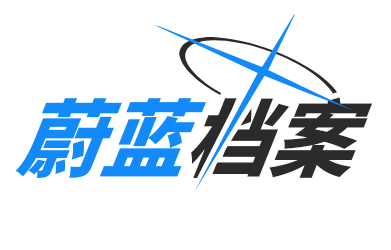
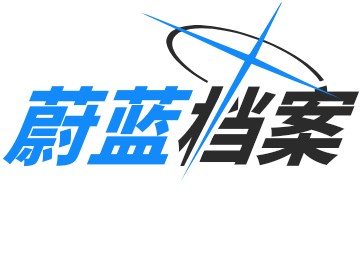
[feat(renderer)]支持像素级裁切与自定义留白居中

Changed region(s): [[0.0, 0.056, 1.0, 0.756], [0.7597, 0.0, 0.7901, 0.056]]

diff --git a/src/renderer.ts b/src/renderer.ts
@@ -27,6 +27,8 @@ export interface RenderOptions {
   offsetY?: number;
   transparent?: boolean;
   crop?: boolean; // 是否自动紧凑裁切两端多余空白（默认 true）
+  padding?: number; // 紧凑裁切留白边距（像素，默认 2，随 scale 缩放）
+  center?: boolean; // 文本垂直视觉居中（有背景时默认 true，透明模式默认 false）
   accentColor?: string; // 自定义主题强调色（默认 #128AFA）
   darkMode?: boolean; // 是否开启暗黑模式（默认 false）
   swapColors?: boolean; // 是否对调左右文字颜色（默认 false）
@@ -93,6 +95,107 @@ function drawVectorShape(
   ctx.scale(scale, scale);
   ctx.fill(path);
   ctx.restore();
+}
+
+/**
+ * 基于像素分析计算实际图形边界，并精确保留指定 padding 边缘（默认 2px）
+ * 当 center 为 true 时，以文本视觉中心对称计算纵向留白，避免文字下沉
+ */
+function trimCanvas(
+  canvas: Canvas,
+  padding: number,
+  transparent: boolean,
+  center: boolean,
+  textCenterY: number,
+  bgColor: string
+): Canvas {
+  const w = canvas.width;
+  const h = canvas.height;
+  const ctx = canvas.getContext('2d');
+  const imgData = ctx.getImageData(0, 0, w, h);
+  const u32 = new Uint32Array(imgData.data.buffer);
+  const bg = transparent ? 0 : u32[0];
+
+  let minY = 0, maxY = h - 1, minX = 0, maxX = w - 1;
+  let found = false;
+
+  // 1. 从上往下扫描 minY
+  topLoop: for (let y = 0; y < h; y++) {
+    const row = y * w;
+    for (let x = 0; x < w; x++) {
+      const p = u32[row + x];
+      if (transparent ? (p >>> 24) > 10 : p !== bg) {
+        minY = y;
+        found = true;
+        break topLoop;
+      }
+    }
+  }
+
+  if (!found) {
+    return canvas;
+  }
+
+  // 2. 从下往上扫描 maxY
+  bottomLoop: for (let y = h - 1; y >= minY; y--) {
+    const row = y * w;
+    for (let x = 0; x < w; x++) {
+      const p = u32[row + x];
+      if (transparent ? (p >>> 24) > 10 : p !== bg) {
+        maxY = y;
+        break bottomLoop;
+      }
+    }
+  }
+
+  // 3. 从左往右扫描 minX
+  leftLoop: for (let x = 0; x < w; x++) {
+    for (let y = minY; y <= maxY; y++) {
+      const p = u32[y * w + x];
+      if (transparent ? (p >>> 24) > 10 : p !== bg) {
+        minX = x;
+        break leftLoop;
+      }
+    }
+  }
+
+  // 4. 从右往左扫描 maxX
+  rightLoop: for (let x = w - 1; x >= minX; x--) {
+    for (let y = minY; y <= maxY; y++) {
+      const p = u32[y * w + x];
+      if (transparent ? (p >>> 24) > 10 : p !== bg) {
+        maxX = x;
+        break rightLoop;
+      }
+    }
+  }
+
+  // 如果启用 center 文本视觉居中（对称上下留白，消除文字下沉感）
+  let effMaxY = maxY;
+  if (center) {
+    const distTop = textCenterY - minY;
+    if (distTop > 0) {
+      effMaxY = Math.max(maxY, Math.round(textCenterY + distTop));
+    }
+  }
+
+  const cropX = Math.max(0, minX - padding);
+  const cropY = Math.max(0, minY - padding);
+  const cropW = Math.min(w - cropX, maxX - minX + 1 + padding * 2);
+  const cropH = effMaxY - minY + 1 + padding * 2;
+
+  if (cropW === w && cropH === h && cropX === 0 && cropY === 0) {
+    return canvas;
+  }
+
+  const trimmed = createCanvas(cropW, cropH);
+  const tCtx = trimmed.getContext('2d');
+  if (!transparent) {
+    tCtx.fillStyle = bgColor;
+    tCtx.fillRect(0, 0, cropW, cropH);
+  }
+  tCtx.drawImage(canvas, cropX, cropY, cropW, cropH, 0, 0, cropW, cropH);
+  return trimmed;
 }
 
 /**
@@ -278,6 +381,17 @@ export function renderLogo(options: RenderOptions = {}): Canvas {
     const subY = canvasHeight * TEXT_BASELINE + subtitleFontSize + 5 * scale;
     ctx.fillText(subtitle, subtitleX, subY);
     ctx.resetTransform();
+  }
+
+  // 7. 紧凑像素级包围盒裁切（默认贴合到边缘 2px，支持自定义 padding）
+  if (crop) {
+    const rawPad = Number(options.padding ?? 2);
+    const safePad = Number.isFinite(rawPad)
+      ? Math.max(0, Math.round(rawPad * scale))
+      : Math.round(2 * scale);
+    const isCenter = options.center ?? !transparent;
+    const textCenterY = canvasHeight * TEXT_BASELINE - (ascentL - descentL) / 2;
+    return trimCanvas(canvas, safePad, transparent, isCenter, textCenterY, backgroundColor);
   }
 
   return canvas;

diff --git a/src/webui.ts b/src/webui.ts
@@ -684,6 +684,15 @@ export function getWebUIHtml(): string {
         </div>
       </div>
 
+      <!-- 紧凑边距 -->
+      <div class="form-group">
+        <label class="form-label">边缘紧凑留白 (PADDING，默认 2px 极致贴边)</label>
+        <div class="range-group">
+          <input type="range" id="inputPadding" min="0" max="40" value="2">
+          <span class="range-val" id="valPadding">2px</span>
+        </div>
+      </div>
+
       <!-- 分辨率倍率 -->
       <div class="form-group">
         <label class="form-label">分辨率倍率 (SCALE)</label>
@@ -735,6 +744,14 @@ export function getWebUIHtml(): string {
           <span>自动紧凑裁切</span>
           <div class="switch">
             <input type="checkbox" id="toggleCrop" checked>
+            <span class="slider"></span>
+          </div>
+        </label>
+
+        <label class="toggle-item">
+          <span>文本视觉居中</span>
+          <div class="switch">
+            <input type="checkbox" id="toggleCenter" checked>
             <span class="slider"></span>
           </div>
         </label>
@@ -792,7 +809,9 @@ export function getWebUIHtml(): string {
       transparent: false,
       dark: false,
       swap: false,
-      crop: true
+      crop: true,
+      padding: 2,
+      center: true
     };
 
     // DOM 元素引用
@@ -804,10 +823,13 @@ export function getWebUIHtml(): string {
     const elY = document.getElementById('inputY');
     const valX = document.getElementById('valX');
     const valY = document.getElementById('valY');
+    const elPadding = document.getElementById('inputPadding');
+    const valPadding = document.getElementById('valPadding');
     const elTp = document.getElementById('toggleTp');
     const elDark = document.getElementById('toggleDark');
     const elSwap = document.getElementById('toggleSwap');
     const elCrop = document.getElementById('toggleCrop');
+    const elCenter = document.getElementById('toggleCenter');
 
     const previewImg = document.getElementById('previewImg');
     const previewBox = document.getElementById('previewBox');
@@ -837,6 +859,8 @@ export function getWebUIHtml(): string {
       if (state.dark) params.set('dark', 'true');
       if (state.swap) params.set('swap', 'true');
       if (!state.crop) params.set('crop', 'false');
+      if (state.padding !== 2) params.set('padding', state.padding);
+      if (!state.center) params.set('center', 'false');
 
       const qs = params.toString();
       return '/api/logo' + (qs ? '?' + qs : '');
@@ -901,10 +925,22 @@ export function getWebUIHtml(): string {
       updatePreview();
     });
 
-    elTp.addEventListener('change', (e) => { state.transparent = e.target.checked; updatePreview(); });
+    elPadding.addEventListener('input', (e) => {
+      state.padding = Number(e.target.value);
+      valPadding.innerText = state.padding + 'px';
+      updatePreview();
+    });
+
+    elTp.addEventListener('change', (e) => {
+      state.transparent = e.target.checked;
+      state.center = !state.transparent;
+      elCenter.checked = state.center;
+      updatePreview();
+    });
     elDark.addEventListener('change', (e) => { state.dark = e.target.checked; updatePreview(); });
     elSwap.addEventListener('change', (e) => { state.swap = e.target.checked; updatePreview(); });
     elCrop.addEventListener('change', (e) => { state.crop = e.target.checked; updatePreview(); });
+    elCenter.addEventListener('change', (e) => { state.center = e.target.checked; updatePreview(); });
 
     // Scale Pills
     document.querySelectorAll('#scalePills .pill-btn').forEach(btn => {

diff --git a/test/renderer.test.ts b/test/renderer.test.ts
@@ -6,7 +6,7 @@ describe('Renderer Core Unit Tests', () => {
   it('应当正常渲染默认参数并生成有效图片', () => {
     const result = renderLogoToBuffer();
     expect(result.width).toBeGreaterThan(0);
-    expect(result.height).toBe(BASE_CANVAS_HEIGHT);
+    expect(result.height).toBeGreaterThan(0);
     expect(result.mimeType).toBe('image/png');
     expect(result.buffer.length).toBeGreaterThan(1000);
     expect(result.base64.length).toBeGreaterThan(1000);
@@ -42,16 +42,20 @@ describe('Renderer Core Unit Tests', () => {
   });
 
   it('应当支持分辨率等比例缩放 (scale)', () => {
+    // 开启 crop: false 时高度严格等于 BASE_CANVAS_HEIGHT * scale
+    const raw1x = renderLogo({ scale: 1, crop: false });
+    const raw2x = renderLogo({ scale: 2, crop: false });
+    const raw3x = renderLogo({ scale: 3, crop: false });
+
+    expect(raw1x.height).toBe(250);
+    expect(raw2x.height).toBe(500);
+    expect(raw3x.height).toBe(750);
+
+    // 默认 crop: true 紧凑裁切模式下，各倍率尺寸也应当严格保持成倍放大
     const logo1x = renderLogo({ scale: 1 });
     const logo2x = renderLogo({ scale: 2 });
-    const logo3x = renderLogo({ scale: 3 });
-
-    expect(logo1x.height).toBe(250);
-    expect(logo2x.height).toBe(500);
-    expect(logo3x.height).toBe(750);
-
-    // 2x 宽度应当约为 1x 宽度的 2 倍
     expect(Math.abs(logo2x.width - logo1x.width * 2)).toBeLessThan(10);
+    expect(Math.abs(logo2x.height - logo1x.height * 2)).toBeLessThan(10);
   });
 
   it('应当支持色彩自定义、暗黑模式与颜色互换', () => {
@@ -88,9 +92,9 @@ describe('Renderer Core Unit Tests', () => {
   });
 
   it('长短文本边界与裁剪安全性', () => {
-    // 极短文本：保证光环不被裁剪
+    // 极短文本：保证光环不被裁剪，带有恰当边距
     const shortText = renderLogo({ textL: 'A', textR: 'B' });
-    expect(shortText.width).toBeGreaterThanOrEqual(250);
+    expect(shortText.width).toBeGreaterThanOrEqual(200);
 
     // 极长文本：应当动态拉伸而不报错
     const longText = renderLogo({

diff --git a/src/app.ts b/src/app.ts
@@ -46,7 +46,7 @@ export function parseLogoQuery(query: Record<string, any>): RenderOptions {
   // 强调色
   const accentColor = query.accentColor ?? query.accent;
 
-  // 紧凑裁切
+  // 紧凑裁切与留白边距
   const rawCrop = query.crop;
   const crop =
     typeof rawCrop === 'boolean'
@@ -54,6 +54,18 @@ export function parseLogoQuery(query: Record<string, any>): RenderOptions {
       : rawCrop !== undefined
       ? rawCrop !== 'false' && rawCrop !== '0'
       : true;
+
+  const rawPad = query.padding ?? query.pad;
+  const padding =
+    rawPad !== undefined && !Number.isNaN(Number(rawPad)) ? Number(rawPad) : undefined;
+
+  const rawCenter = query.center ?? query.vcenter;
+  const center =
+    typeof rawCenter === 'boolean'
+      ? rawCenter
+      : rawCenter !== undefined
+      ? rawCenter === 'true' || rawCenter === '1'
+      : undefined;
 
   // 格式
   const format = (query.format ?? 'png').toLowerCase() as OutputFormat;
@@ -71,6 +83,8 @@ export function parseLogoQuery(query: Record<string, any>): RenderOptions {
     swapColors,
     accentColor,
     crop,
+    padding,
+    center,
     format,
   };
 }

diff --git a/src/schema.ts b/src/schema.ts
@@ -110,8 +110,28 @@ export const LogoQuerySchema = t.Object({
   ),
   accent: t.Optional(t.String({ description: 'accentColor 别名' })),
 
-  // 裁切与格式
+  // 裁切与留白边距
   crop: t.Optional(FlexibleBoolean),
+  padding: t.Optional(
+    t.Numeric({
+      description: '内容边缘留白边距像素（默认 2px，随 scale 缩放）',
+      default: 2,
+      minimum: 0,
+      maximum: 200,
+      examples: [2, 0, 10],
+    })
+  ),
+  pad: t.Optional(
+    t.Numeric({
+      description: 'padding 别名',
+      minimum: 0,
+      maximum: 200,
+    })
+  ),
+  center: t.Optional(
+    FlexibleBoolean
+  ),
+  vcenter: t.Optional(FlexibleBoolean),
 
   format: t.Optional(
     t.Union(
